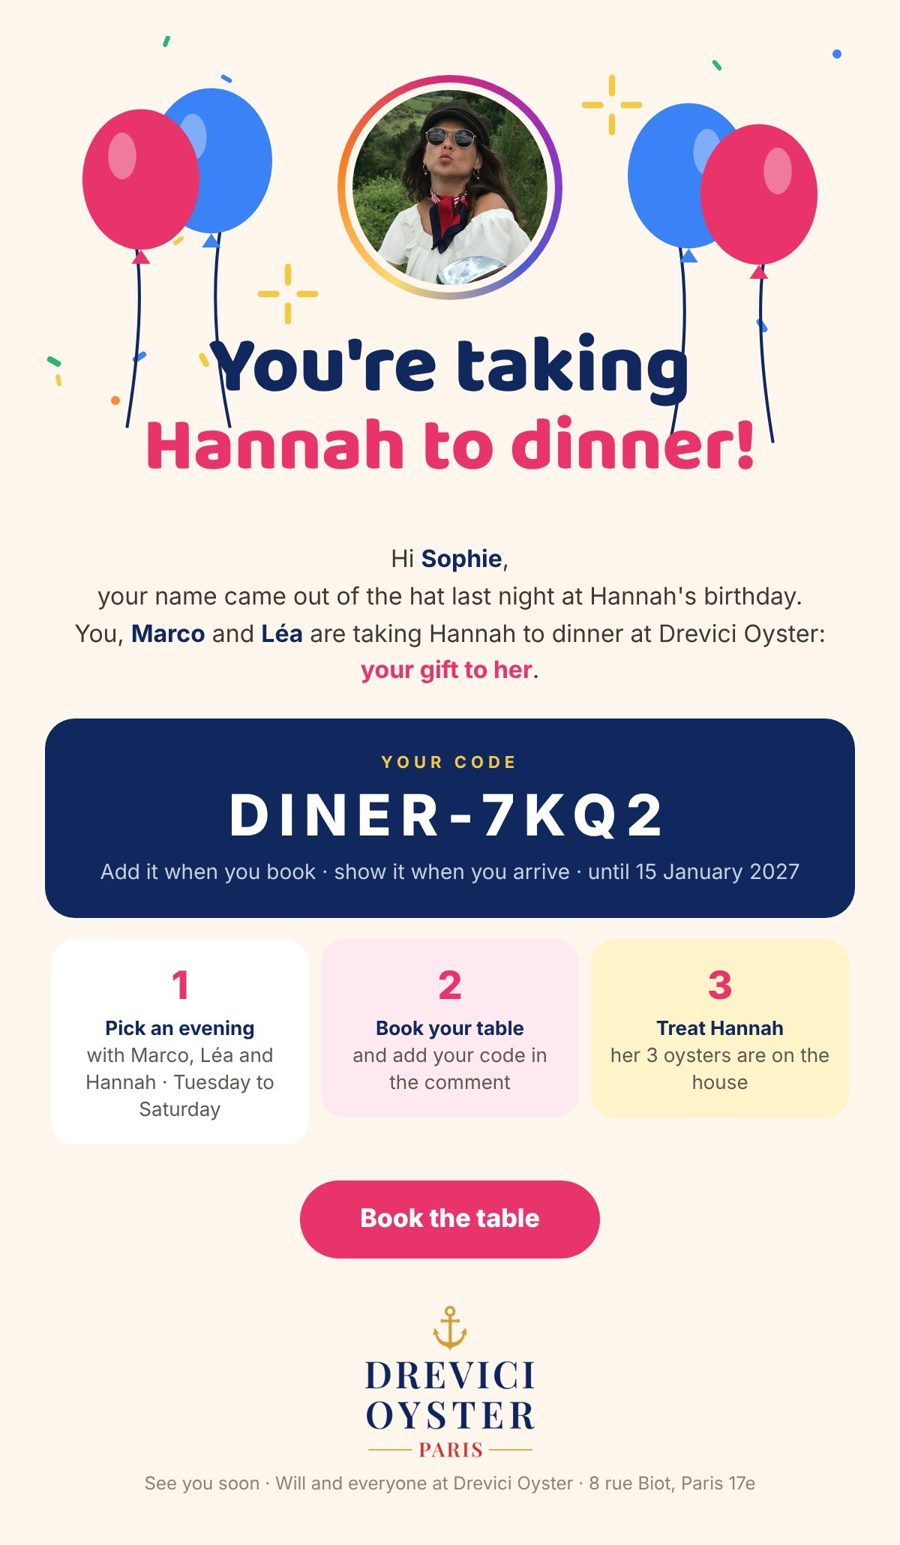
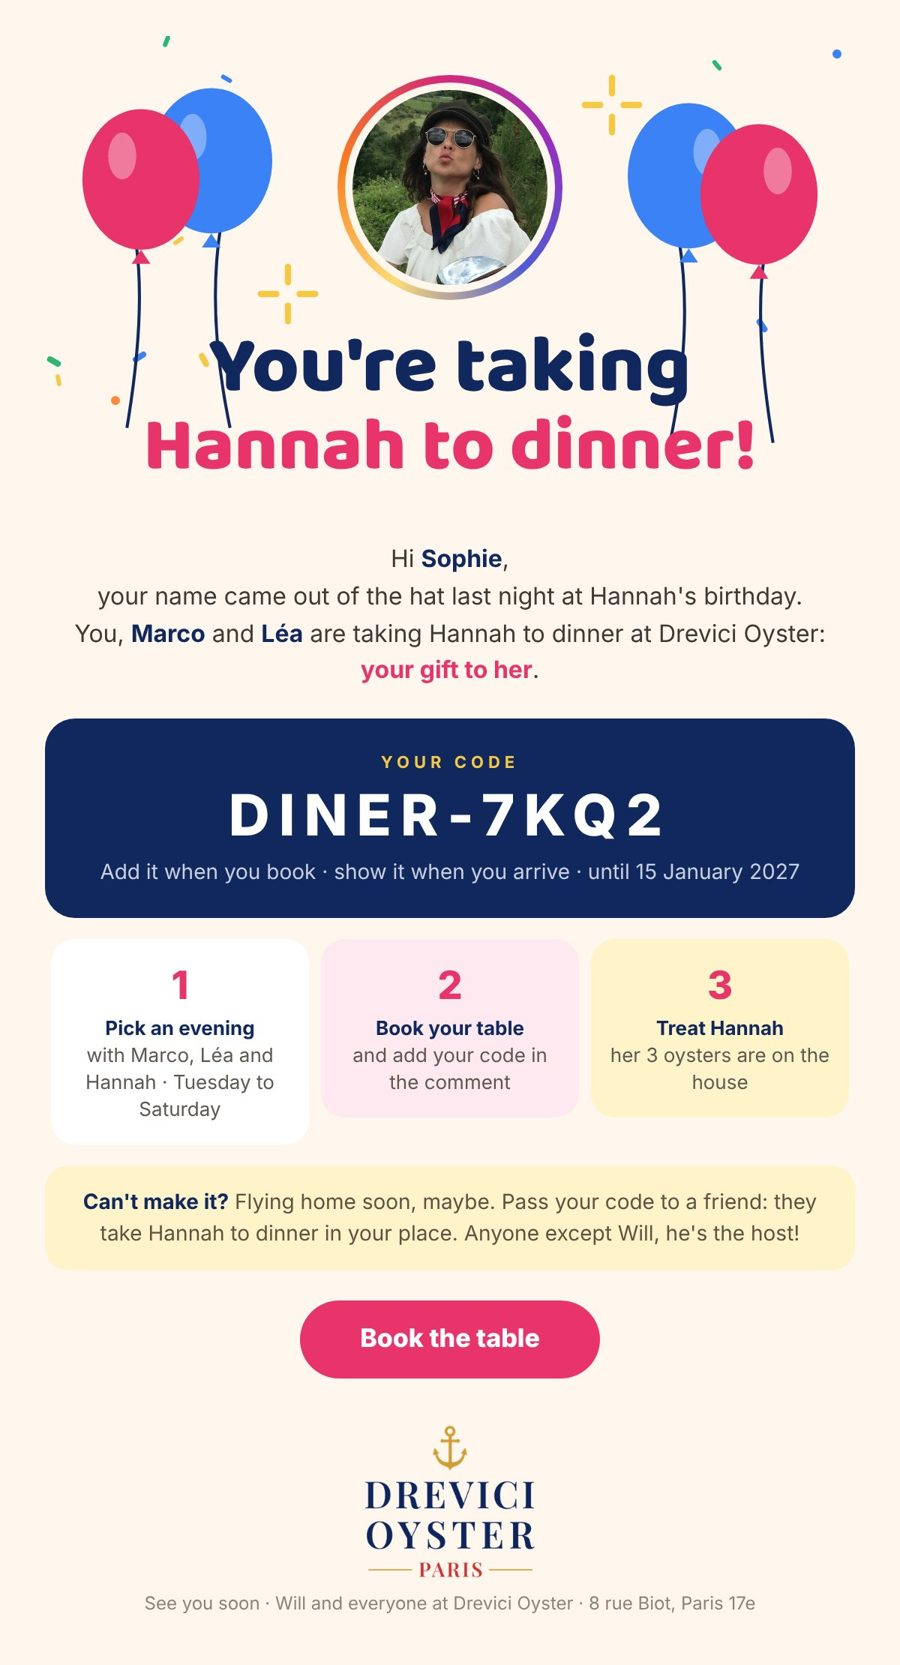
Hannah : code transmissible dans l'email des gagnants
Claude-Session: https://claude.ai/code/session_012ueJSkHMqbZpvX7x5D3Dw2

Changed region(s): [[0.0311, 0.0311, 0.9644, 0.9631], [0.8089, 0.932, 0.84, 0.9631], [0.0622, 0.2175, 0.0933, 0.2485]]

diff --git a/drevici-preview/hannah-live.html b/drevici-preview/hannah-live.html
@@ -110,6 +110,8 @@ Comment faire :
 2. Réservez votre table ici : ${RESA} et notez votre code dans le commentaire.
 3. Montrez le code en arrivant. Les 3 huîtres de Hannah sont offertes par la maison.
 
+Vous ne pouvez pas venir (vous repartez à l'étranger, par exemple) ? Passez votre code à un ami : c'est lui qui invitera Hannah à votre place. N'importe qui, sauf Will : c'est lui qui organise !
+
 Valable jusqu'au 15 janvier 2027.
 
 À très vite,
@@ -124,6 +126,8 @@ How it works:
 1. Pick an evening with ${others} and Hannah (Tuesday to Saturday).
 2. Book your table here: ${RESA} and add your code in the comment.
 3. Show the code when you arrive. Hannah's 3 oysters are on the house.
+
+Can't make it (flying home soon, maybe)? Pass your code to a friend: they take Hannah to dinner in your place. Anyone except Will, he's the host!
 
 Valid until 15 January 2027.
 
